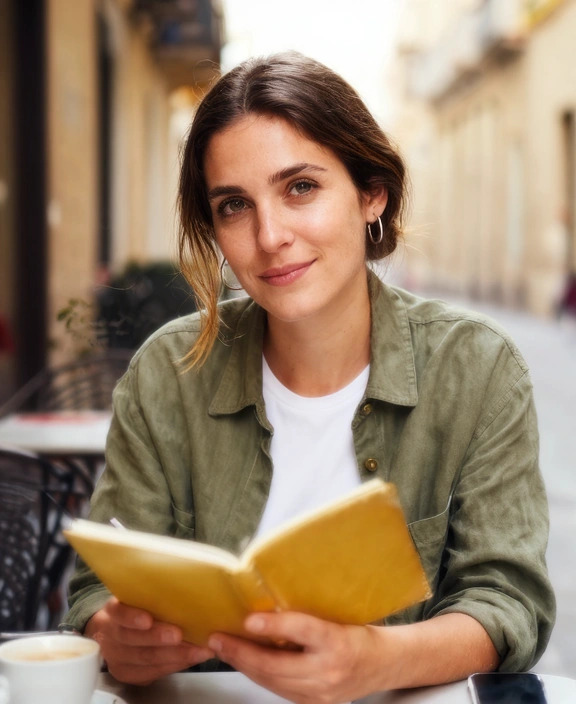
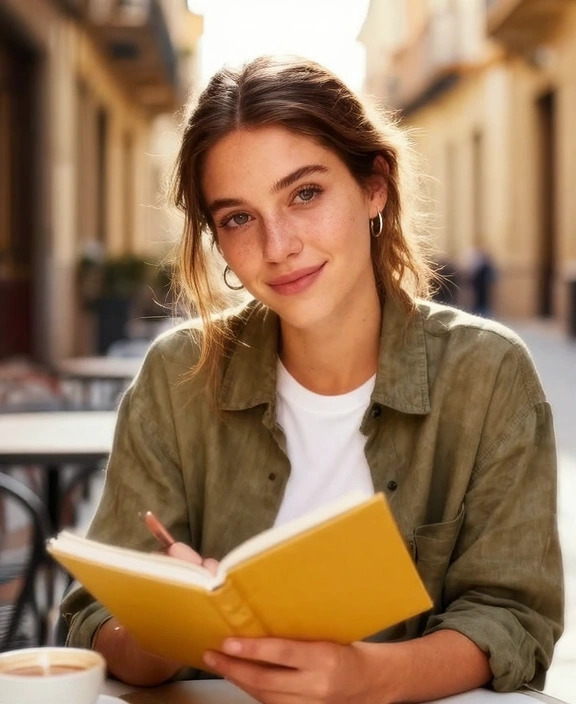
Replace portraits with the 24-year-old version of Vera
Seeds 14 (main) and 33 (alt), same Z-Image-Turbo settings on AI Horde.

Claude-Session: https://claude.ai/code/session_01TCTKL38iwdzYsgFgkBGetE

diff --git a/persona/README.md b/persona/README.md
@@ -151,8 +151,8 @@ studio lighting, text, watermark, logo, extra fingers, distorted hands, cartoon,
 
 | Файл | Модель | Seed | Размер |
 |---|---|---|---|
-| `photos/vera-main.jpg` — основной портрет | Z-Image-Turbo (AI Horde), 9 шагов, CFG 1, k_euler | 21 | 576×704 |
-| `photos/vera-alt.jpg` — запасной вариант | то же | 7 | 576×704 |
+| `photos/vera-main.jpg` — основной портрет | Z-Image-Turbo (AI Horde), 9 шагов, CFG 1, k_euler | 14 | 576×704 |
+| `photos/vera-alt.jpg` — запасной вариант | то же | 33 | 576×704 |
 
 Оба кадра сгенерированы по промпту выше с негативным промптом. Размер ограничен бесплатным анонимным доступом к AI Horde. Для постов в 1080 px перегенерируйте основной портрет в более мощном генераторе, используя `vera-main.jpg` как референс лица.
 
